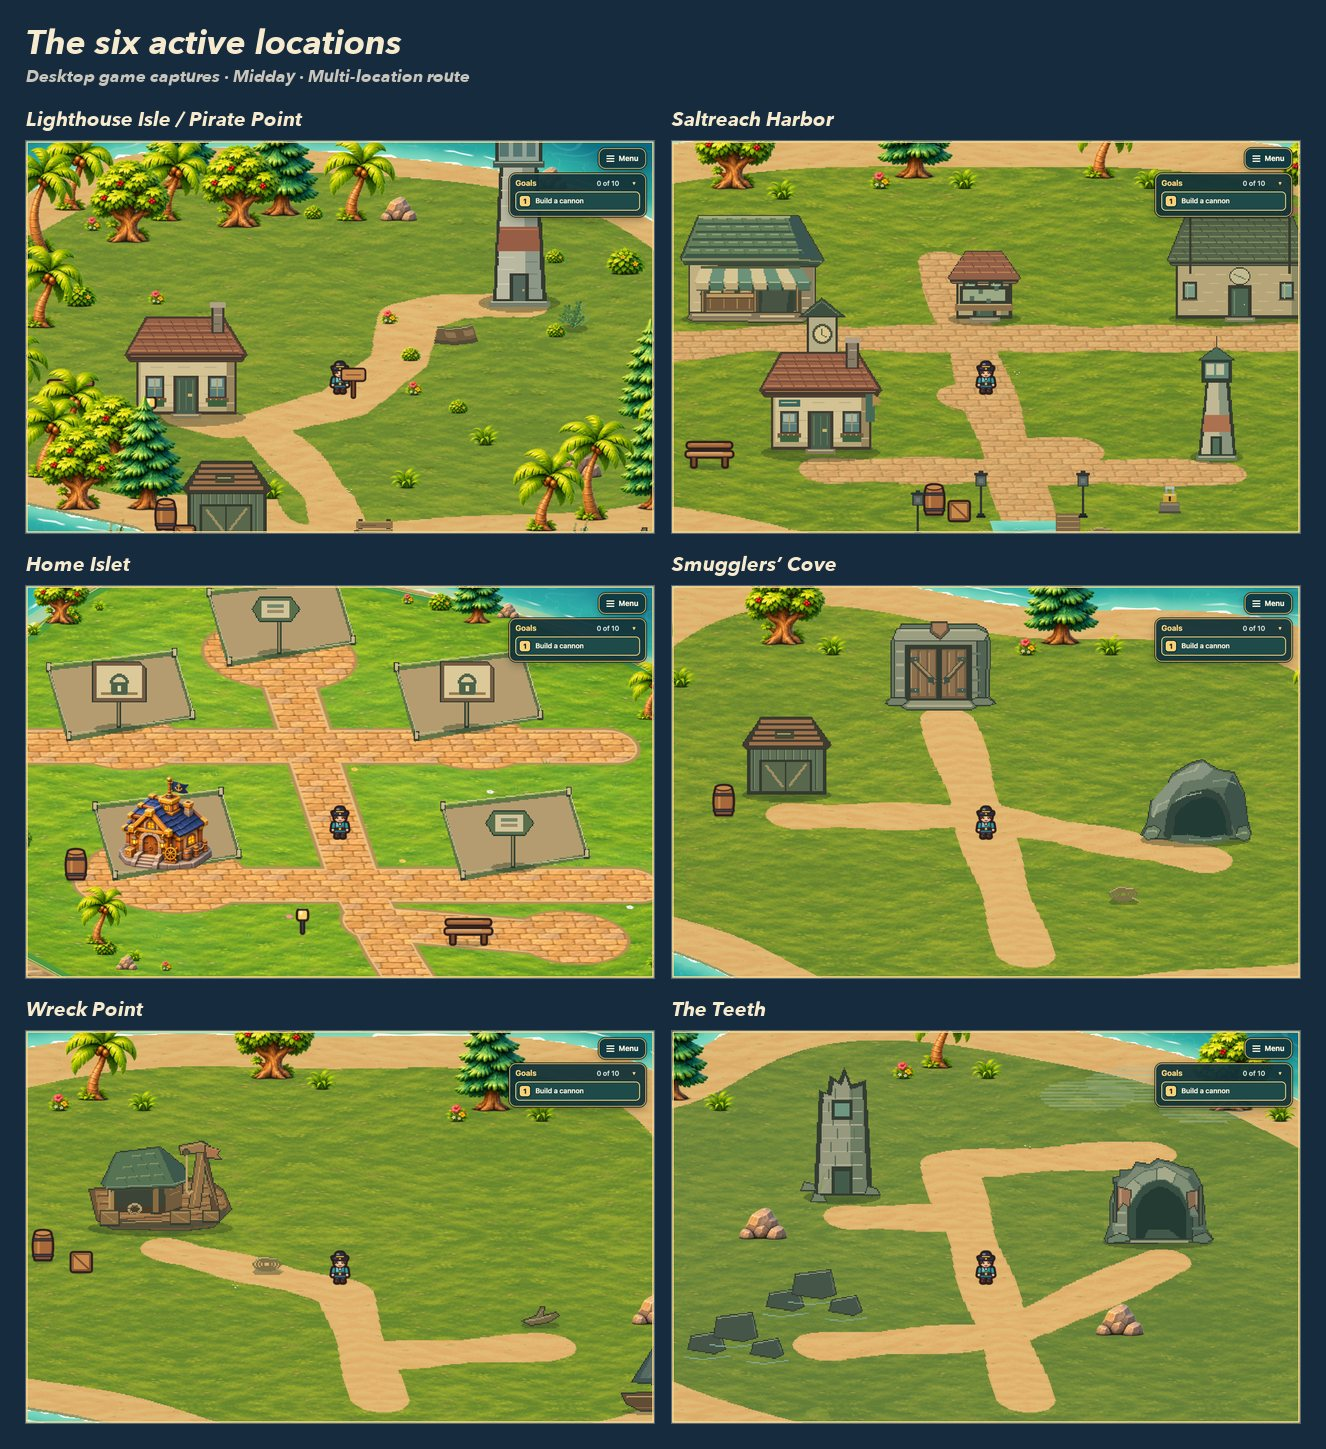
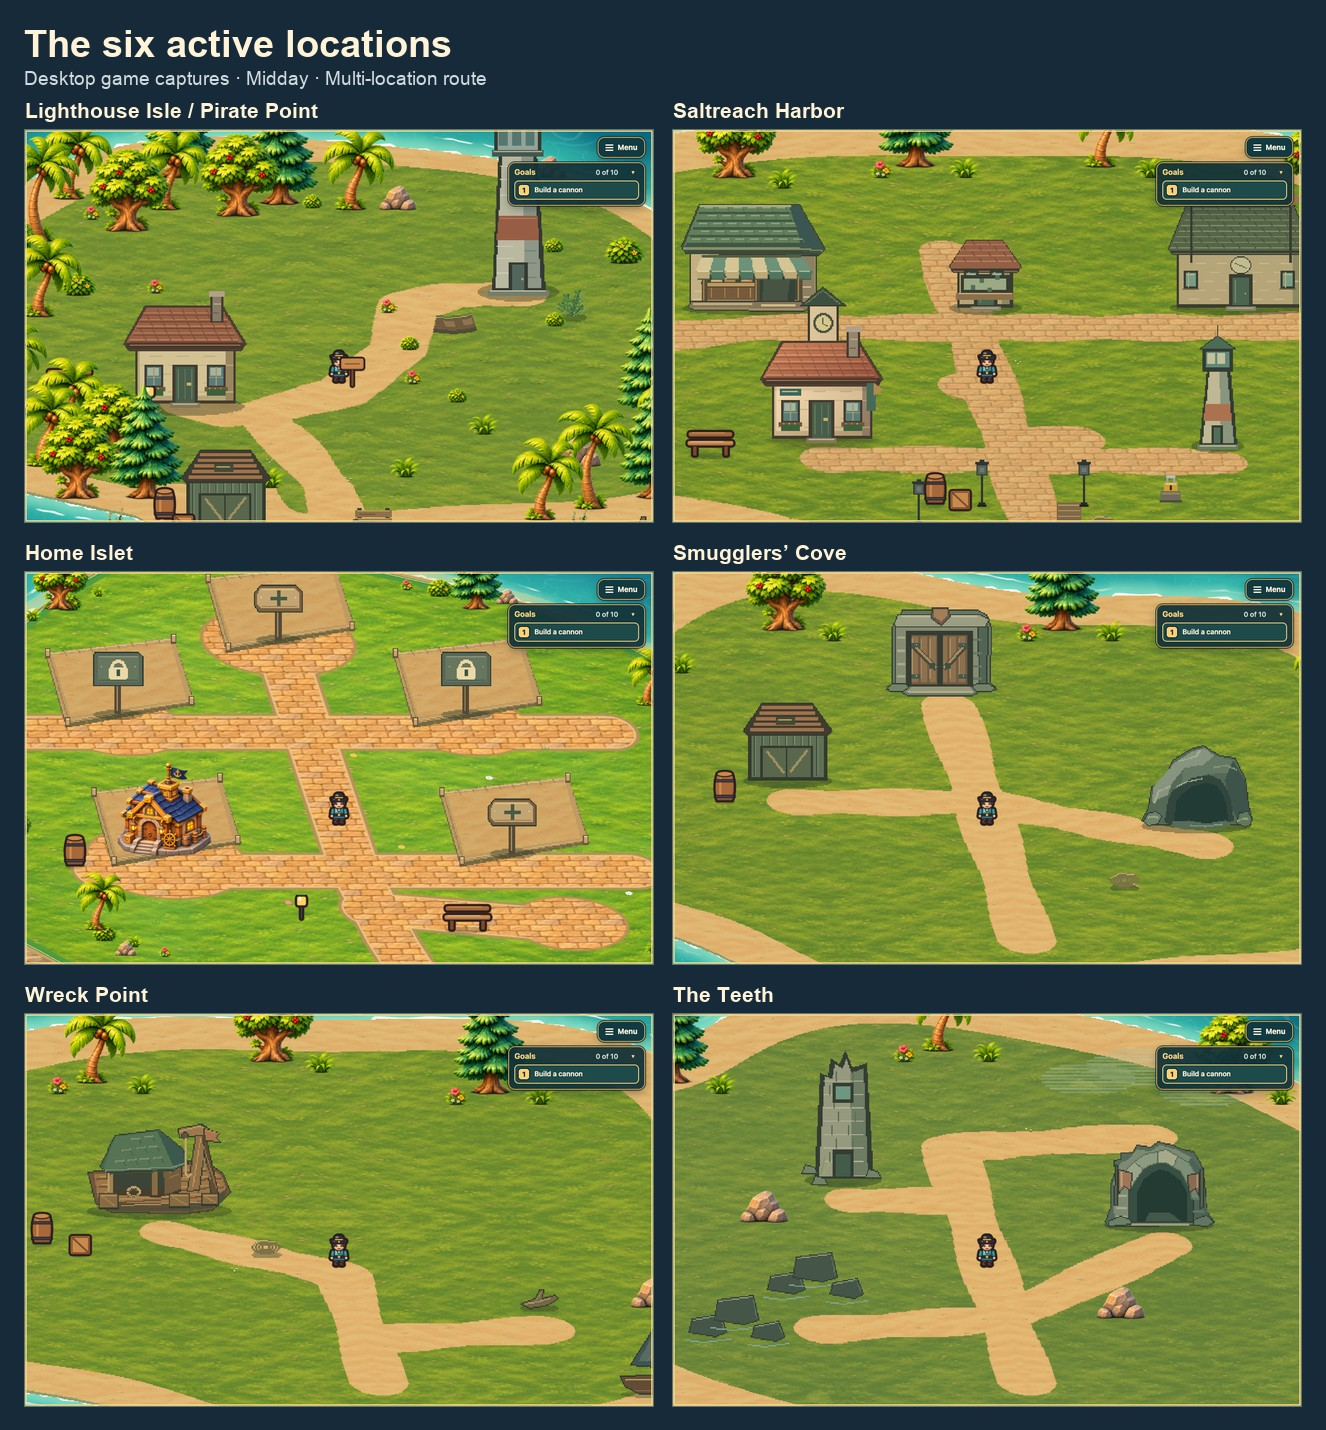
Capture the finished shoreline and village materials

diff --git a/docs/evidence/overnight-visual-polish/README.md b/docs/evidence/overnight-visual-polish/README.md
@@ -44,11 +44,13 @@ The final visual pass also reduced high-detail offshore ripple contrast while pr
 
 [Six-location desktop gallery](map-six-locations.jpg) · [Desktop ground comparison](map-desktop-comparison.jpg) · [Phone arrival comparison](map-phone-arrival.jpg) · [Pirate Point day and night](pirate-point-day-night.jpg)
 
-Home Islet and the outlying islands now share the same grass, sand and paving art. Each island keeps its own coast, paths and palette. Harbor uses stone paving, the other outlying locations use sand, and The Teeth stays muted. The five repainted 1024 × 768 backgrounds preserve their original alpha byte for byte and add about 456 KiB across five separate scene loads. The game uses the existing texture at each location. Pirate Point and the retained Lighthouse route load the same ground image.
+Home Islet and the outlying islands now share the same grass, sand and paving art. Each island keeps its natural coast, paths and palette. Harbor uses stone paving, the other outlying locations use sand, and The Teeth stays muted. Four 1024 × 768 backdrops preserve their original alpha byte for byte. Harbor also fills the small cutout under its existing ferry deck. The five painted backdrops add about 458 KiB across separate scene loads. The game uses the existing texture at each location. Pirate Point and the retained Lighthouse route load the same ground image.
 
 Smugglers’ Cove has a low slate cave and a closed timber arena gate. The Teeth’s Raid arch is an open stone portal with worn pennants. In Chrome and WebKit, those landmarks retain their existing canvas, foot anchors and world interactions. The Market Hall now has a striped awning and open counter, and Wreck Point’s salvage shed has a timber hoist and a visible vessel hull. Native inputs opened the Market and sailed to Wreck Point. The six-location route check also verifies three different travel presentations, the harbor office at night and stable graphics resources over ten round trips. [Desktop Cove comparison](cove-landmarks.jpg) · [Walk-up Market Hall](harbor-market-comparison.jpg) · [Salvage Yard on a phone](map-phone-comparison.jpg)
 
 The original building plots in Home Islet’s multi-location mode use the village sand and low sandstone edging. Amber plus signs mark buildable plots, and muted padlock signs mark locked plots. Native Chrome clicks and taps opened the workshop panel at the same canvas positions on desktop and phone. Plot positions, colliders and scene resource counts matched the previous art. The three PNGs add about 2.6 KiB on this route. [Desktop building plots](home-parcels-desktop.jpg) · [Phone building plots](home-parcels-phone.jpg)
+
+The Harbor beach continues beneath the ferry deck. The regenerated Harbor image fills 4,840 natural grass and sand pixels and preserves the existing RGBA values everywhere else. The eight exported runtime movement masks are byte-identical. Desktop and phone input still walk the pier and continue to Home through the Sea Chart. The original Harbor Office uses warmer clay, limestone and a closer contact shadow. Its size, anchor and lit windows are preserved. [Desktop pier comparison](harbor-pier-desktop-before-after.jpg) · [Phone pier comparison](harbor-pier-phone-before-after.jpg) · [Harbor Office by day and night](harbor-office-before-after.jpg)
 
 [Desktop Sea Chart](chart-desktop.jpg) · [Short phone Sea Chart before and after](chart-compact.jpg)
 
